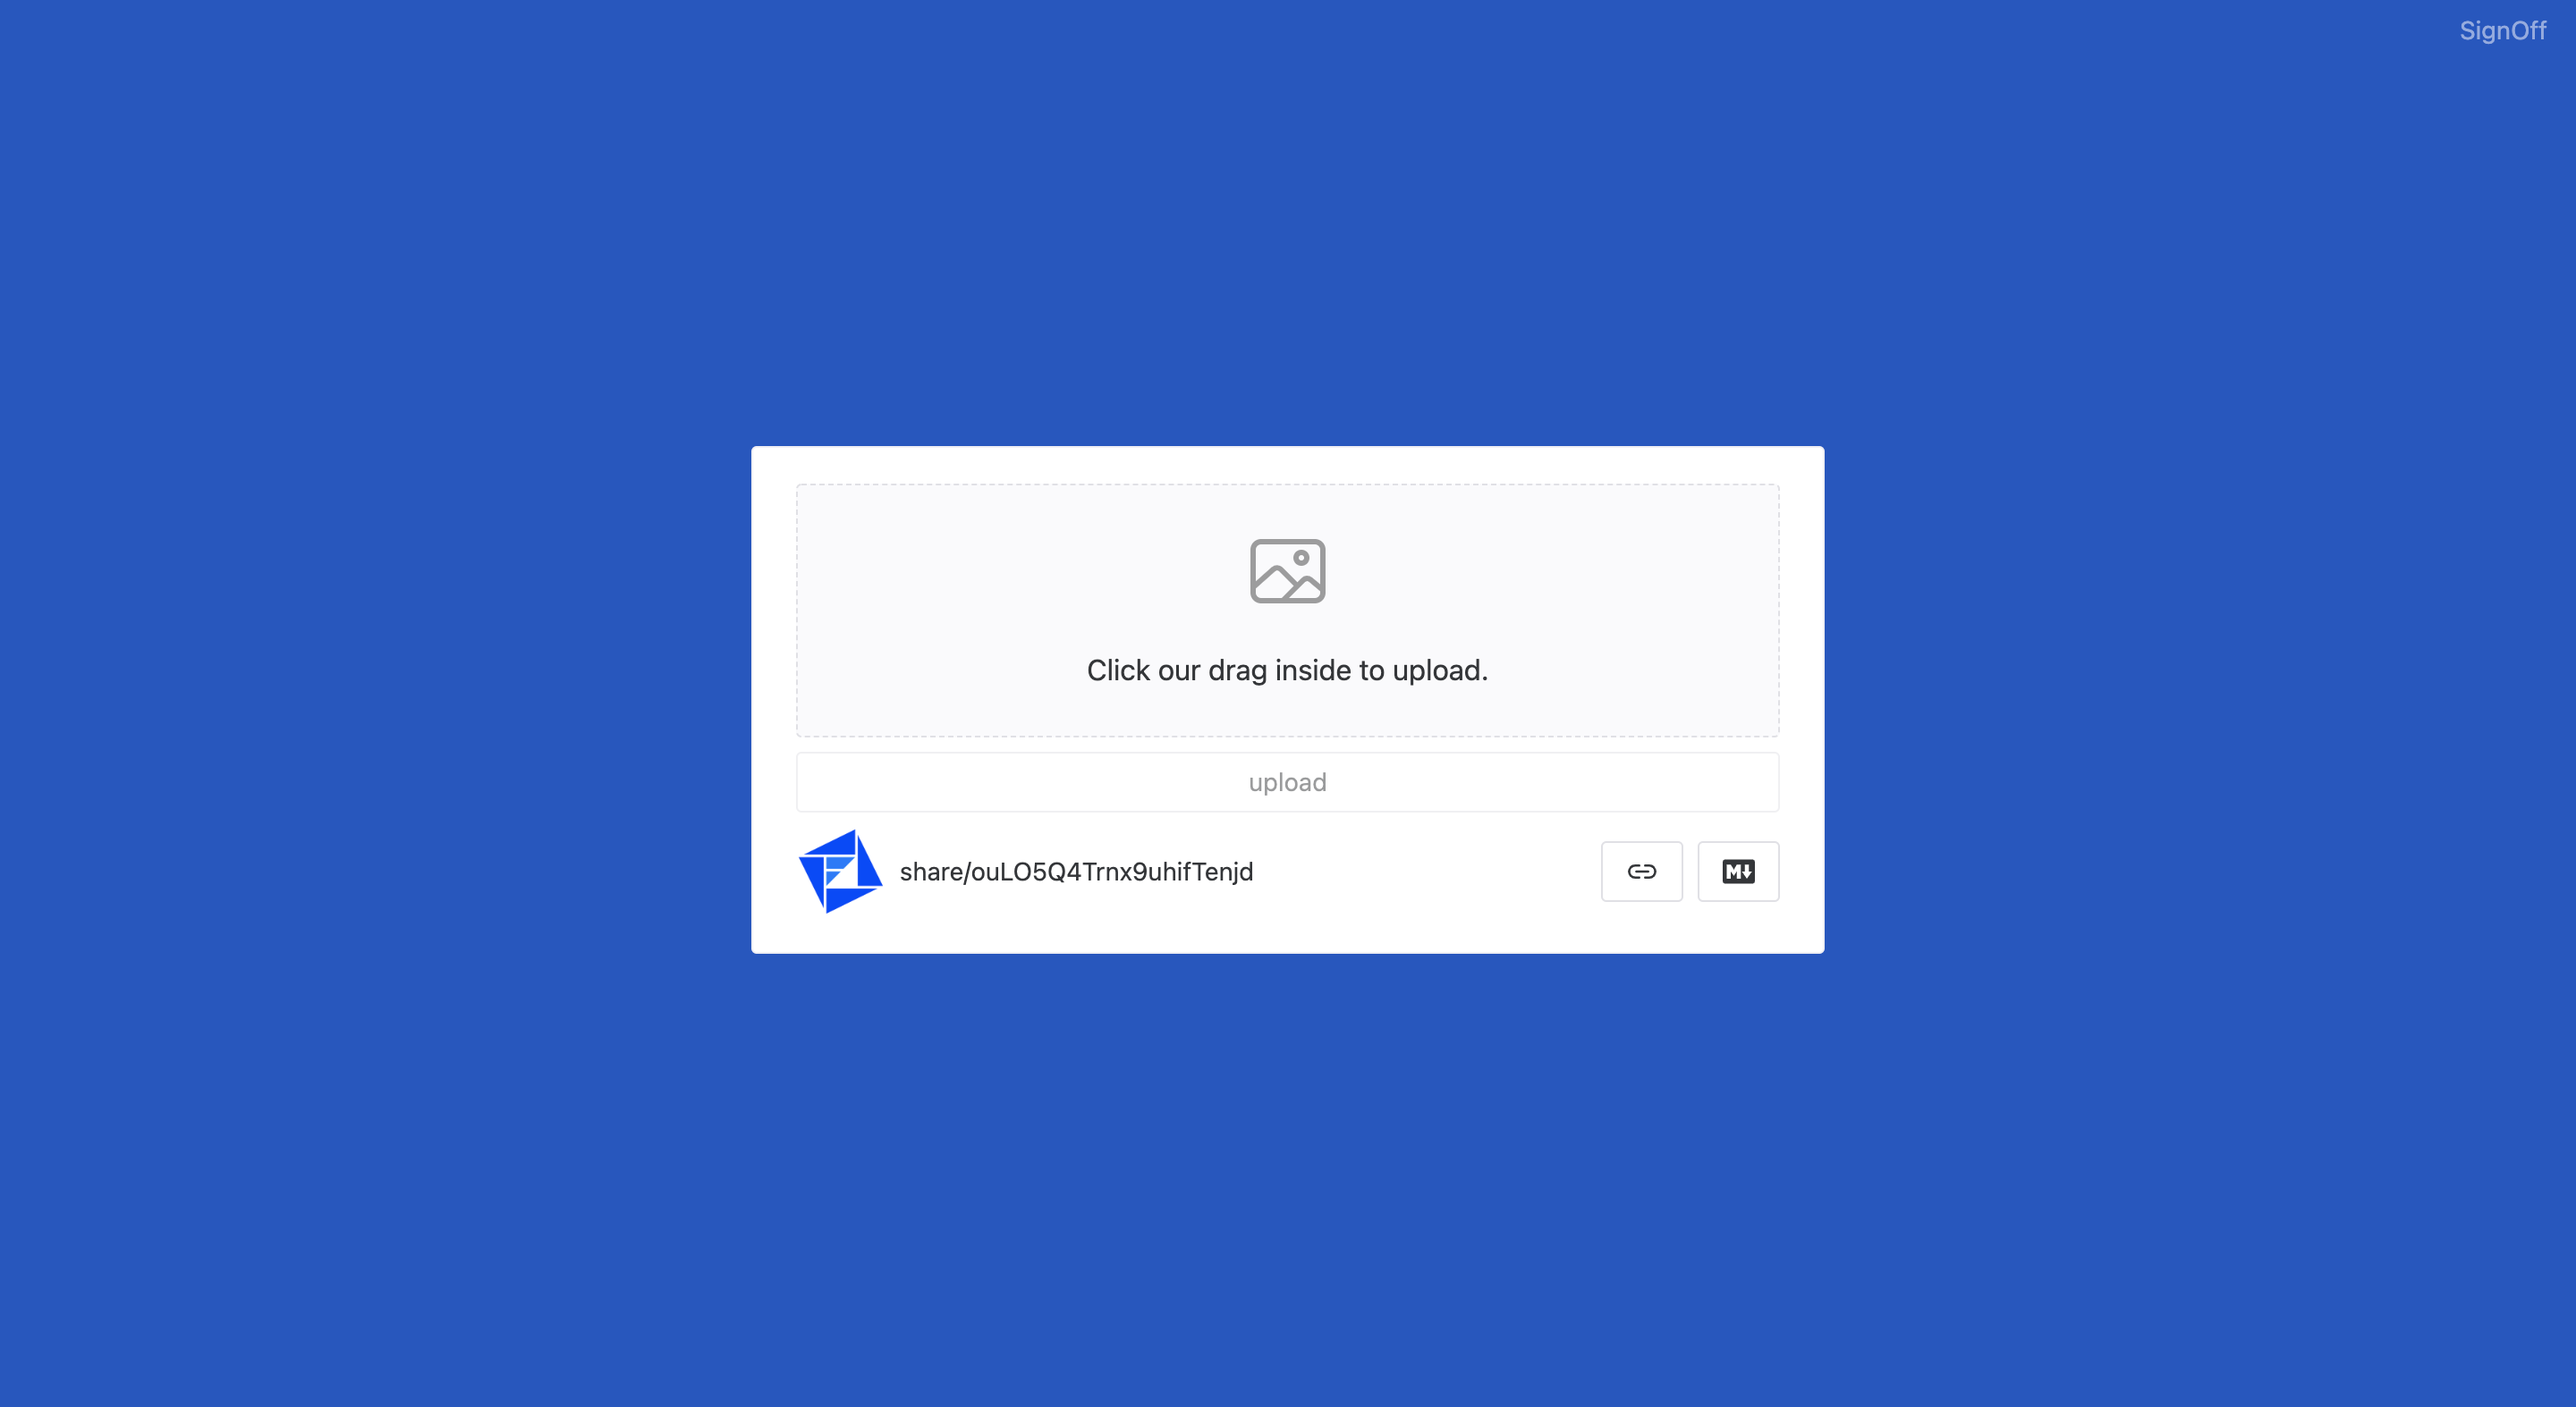
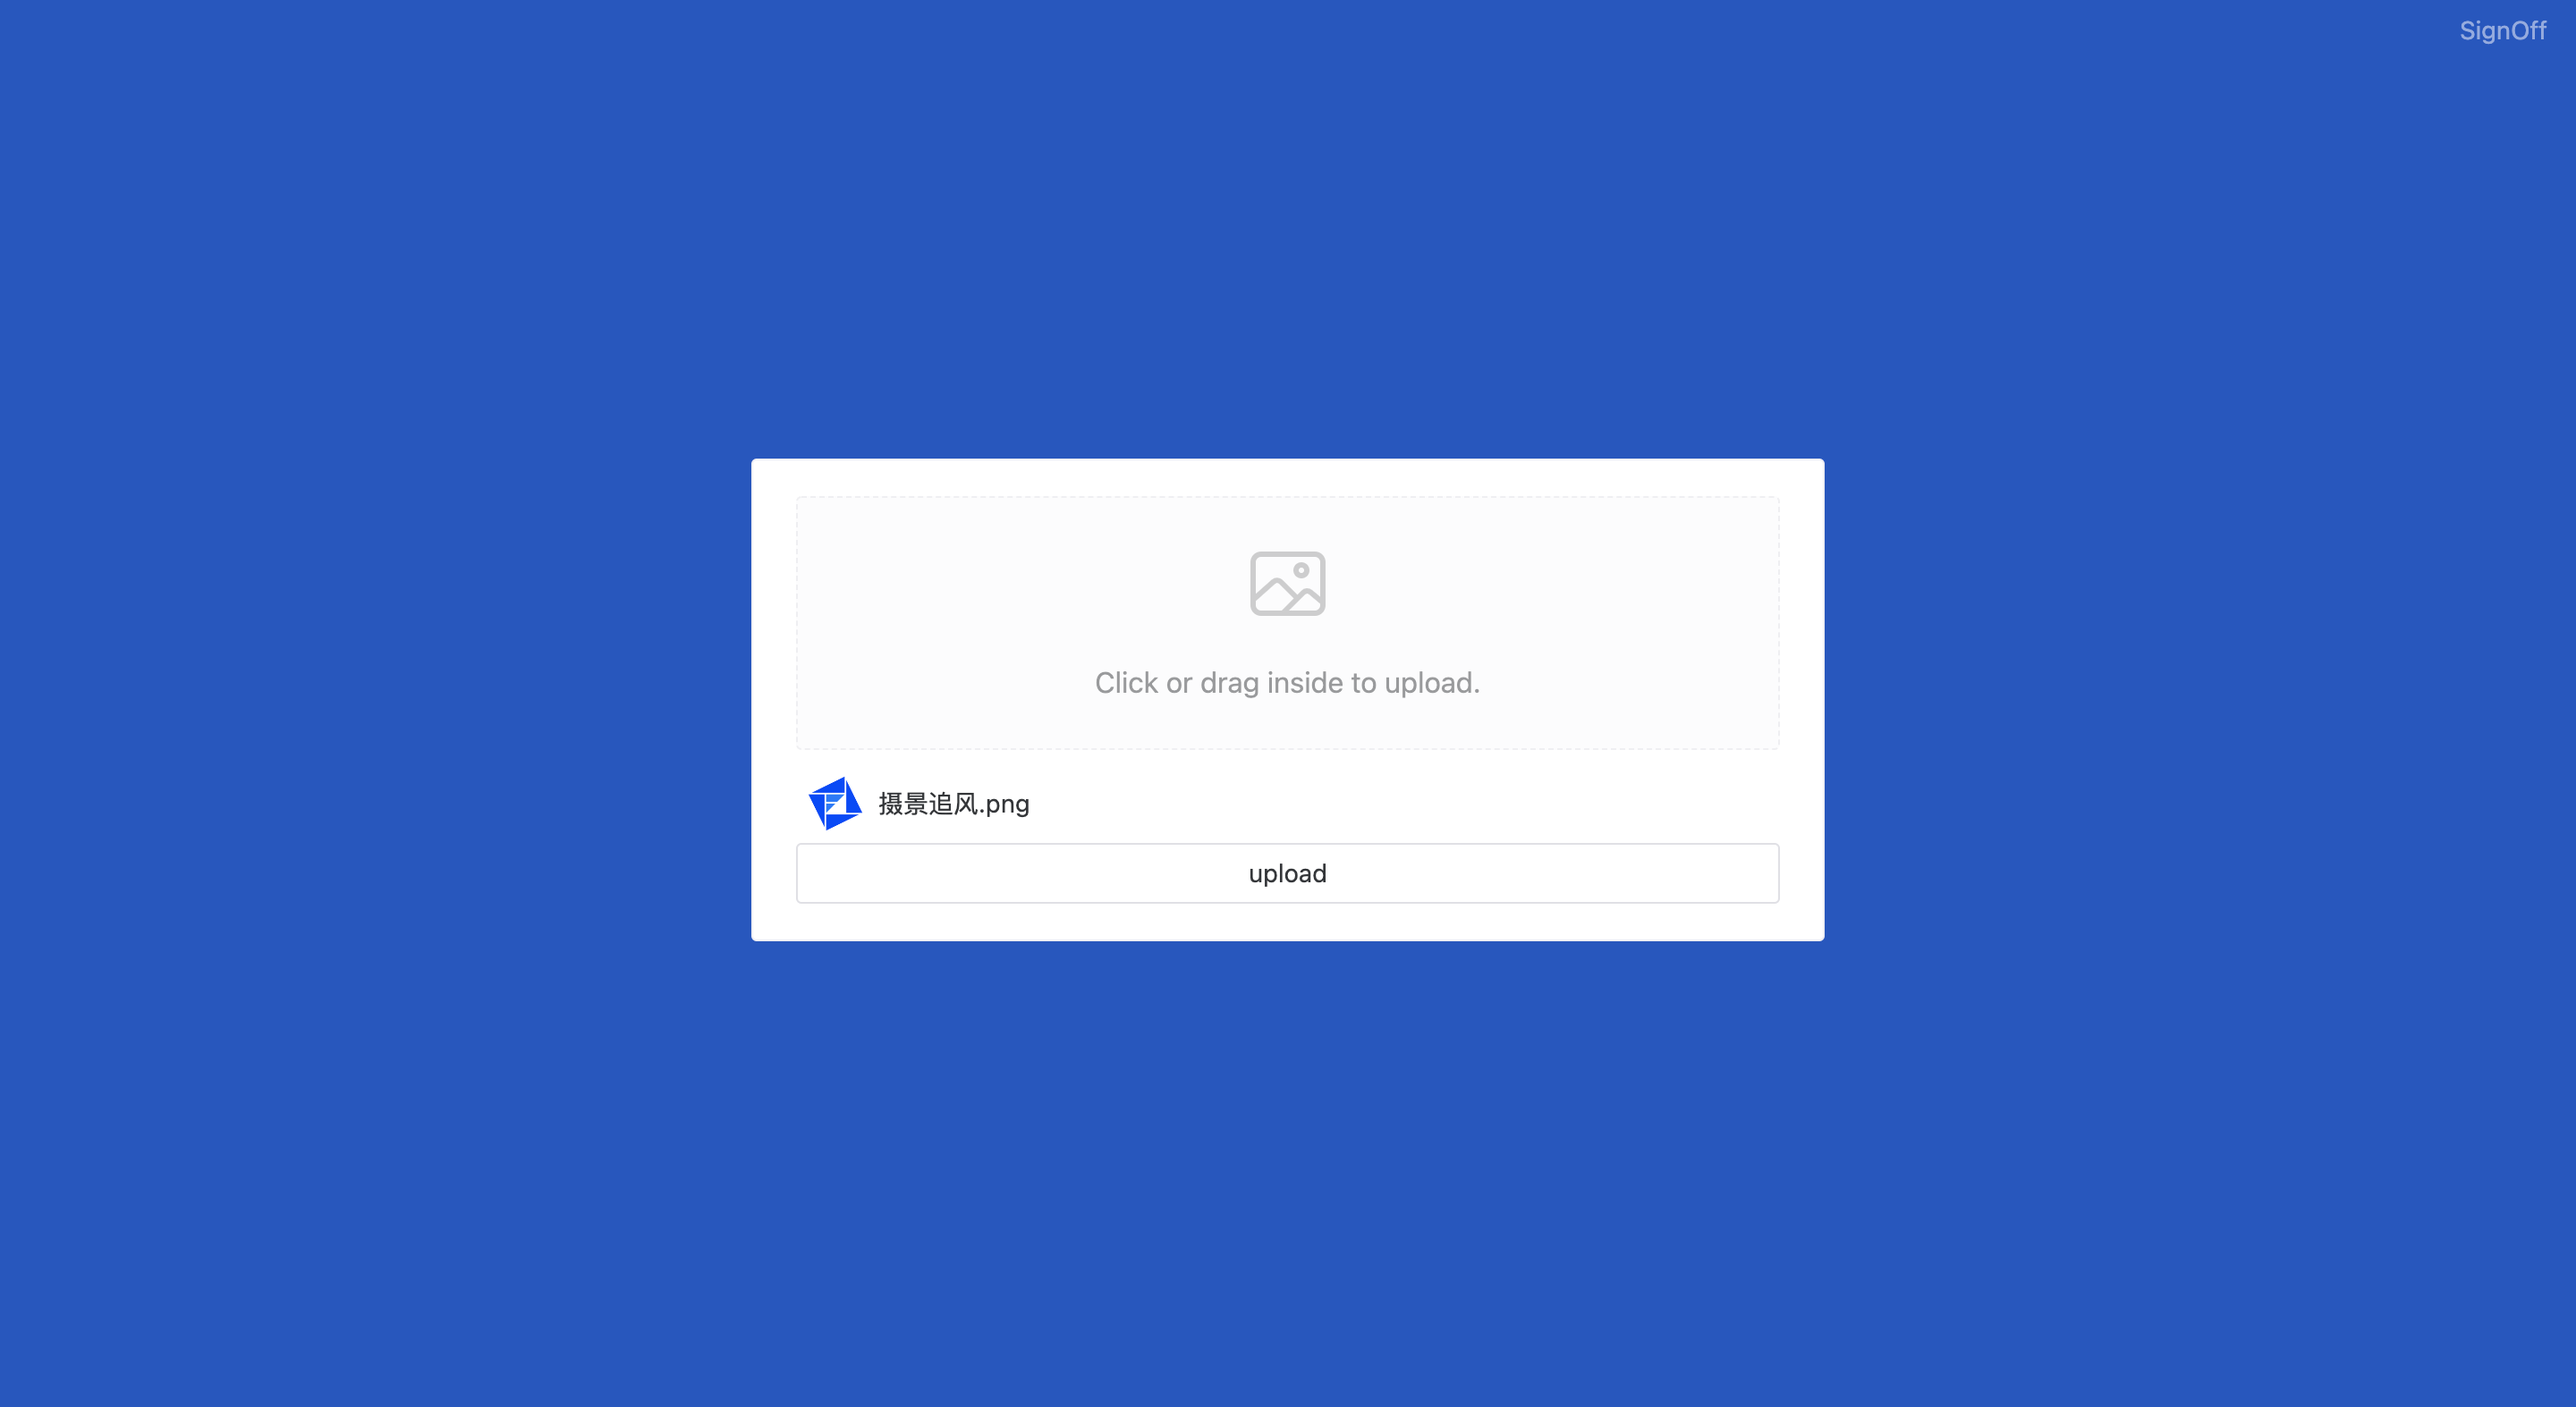
doc: install (#15)
* doc: instsall guide

* chore: format

* doc

* doc: policy document

* chore: fix typo

diff --git a/app/pages/index.vue b/app/pages/index.vue
@@ -43,7 +43,7 @@ const upload = () => {
                 </NIcon>
               </div>
               <NText style="font-size: 16px">
-                Click our drag inside to upload.
+                Click or drag inside to upload.
               </NText>
             </NUploadDragger>
           </NUpload>

diff --git a/README.md b/README.md
@@ -7,3 +7,86 @@ Image pool management site
 ![main](./screenshots/main.png)
 
 ![signin](./screenshots/singin.png)
+
+## Install
+
+Docker is the only way to install imageur. (Or you can run dev mode :p)
+
+> Only Aliyun OSS is supported now. If you want to add more, raise an issue :P.
+
+### Setup Aliyun-OSS service
+
+[Create Bucket](https://help.aliyun.com/document_detail/31842.html)
+
+- Login to [OSS console](https://oss.console.aliyun.com/)
+- Click **Bucket List**, click **Create Bucket**
+- Fill in the parameters and create Bucket
+
+[Setup CORS](https://help.aliyun.com/document_detail/31903.htm)
+
+- Login to [OSS console](https://oss.console.aliyun.com/)
+- Click **Bucket List**, click you Bucket for imageur
+- Click **Access Control > CORS**
+- Click **Configure** in CORS section
+- Click **Create Rule**
+
+```txt
+Soures:
+  you exact domain
+  e.g. www.aliyun.com or *.aliyun.com
+Allowed Methods:
+  Check all
+Allowed Headers:
+  *
+Exposed Headers:
+  ETag
+  x-oss-request-id
+  x-oss-version-id
+```
+
+### Setup Aliyun STS service
+
+[Follow this document first](https://help.aliyun.com/document_detail/100624.htm)
+
+YOU NEED TO CHANGE **POLICY DOCUMENT** TO THE FOLLOWING
+
+```json
+{
+  "Version": "1",
+  "Statement": [
+    {
+      "Effect": "Allow",
+      "Action": "oss:PutObject",
+      "Resource": [
+        "acs:oss:*:*:YOUR_BUCKET_NAME/share",
+        "acs:oss:*:*:YOUR_BUCKET_NAME/share/*"
+      ]
+    }
+  ]
+}
+```
+
+You need to get the following field in this step:
+
+- `AccessKey ID`
+- `AccessKey Secret` (only show once, be sure to store it some where)
+- `ARN`
+
+### Environment
+
+```yml
+- USERNAME: admin
+- PASSWORD: admin
+- SECRET: random string
+- ACCESS_KEY_ID: Aliyun AccessKey ID
+- ACCESS_KEY_SECRET: Aliyun AccessKey Secret
+- ARN: OSS ARN
+- REGION: OSS Region e.g. oss-cn-beijing
+- BUCKET: OSS Bucket name
+```
+
+### Start docker
+
+Copy the `docker-compose.yml`, config environment and run `docker-compose up` to test.
+
+If all works fine, `Ctrl C` to shutdown then run `docker-compose up -d` to deploy.
